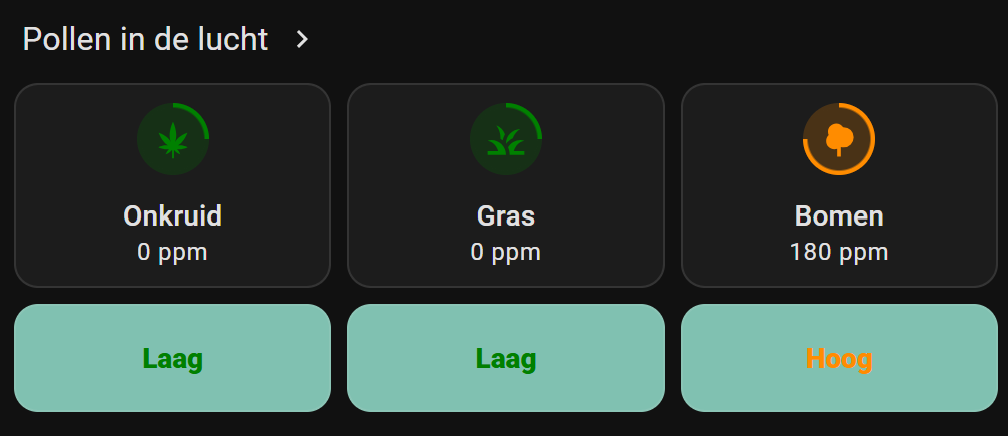
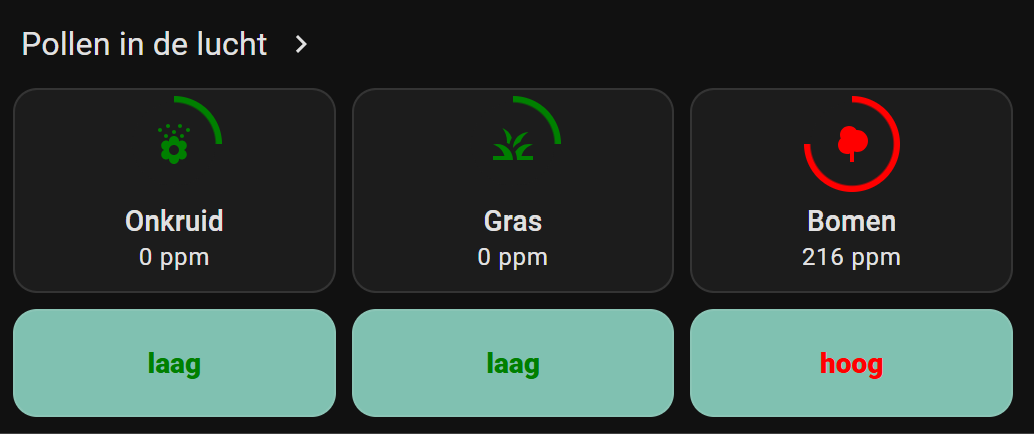
pollen: fix yaml with new HA version

diff --git a/homeassistant/homeassistant_hacs_kleenex.md b/homeassistant/homeassistant_hacs_kleenex.md
@@ -326,7 +326,7 @@ cards:
       style: |
         ha-tile-icon {
           {% set level = states('sensor.kleenex_pollen_radar_huis_weeds_level') %}
-          {% set color = {'none': 'green','low':'yellow','moderate':'orange','high':'red','very-high':'maroon'} %}
+          {% set color = {'none': 'green','low':'green','moderate':'orange','high':'red','very-high':'maroon'} %}
           {% set level_color = color.get(level,'gray') %}
           {% set circle = {'low':'25','moderate':'50','high':'75','very-high':'100'} %}        
           {% set percentage = circle.get(level,'25') %}
@@ -346,7 +346,7 @@ cards:
       style: |
         ha-tile-icon {
           {% set level = states('sensor.kleenex_pollen_radar_huis_grass_level') %}
-          {% set color = {'none': 'green','low':'yellow','moderate':'orange','high':'red','very-high':'maroon'} %}
+          {% set color = {'none': 'green','low':'green','moderate':'orange','high':'red','very-high':'maroon'} %}
           {% set level_color = color.get(level,'gray') %}
           {% set circle = {'low':'25','moderate':'50','high':'75','very-high':'100'} %}        
           {% set percentage = circle.get(level,'25') %}
@@ -366,7 +366,7 @@ cards:
       style: |
         ha-tile-icon {
           {% set level = states('sensor.kleenex_pollen_radar_huis_trees_level') %}
-          {% set color = {'none': 'green','low':'yellow','moderate':'orange','high':'red','very-high':'maroon'} %}
+          {% set color = {'none': 'green','low':'green','moderate':'orange','high':'red','very-high':'maroon'} %}
           {% set level_color = color.get(level,'gray') %}
           {% set circle = {'low':'25','moderate':'50','high':'75','very-high':'100'} %}        
           {% set percentage = circle.get(level,'25') %}
@@ -418,7 +418,7 @@ cards:
           style: |
             ha-tile-icon {
               {% set level = states('sensor.kleenex_pollen_radar_huis_weeds_level') %}
-              {% set color = {'none': 'green','low':'yellow','moderate':'orange','high':'red','very-high':'maroon'} %}
+              {% set color = {'none': 'green','low':'green','moderate':'orange','high':'red','very-high':'maroon'} %}
               {% set level_color = color.get(level,'gray') %}
               {% set circle = {'low':'25','moderate':'50','high':'75','very-high':'100'} %}        
               {% set percentage = circle.get(level,'25') %}
@@ -438,7 +438,7 @@ cards:
           style: |
             ha-tile-icon {
               {% set level = states('sensor.kleenex_pollen_radar_huis_grass_level') %}
-              {% set color = {'none': 'green','low':'yellow','moderate':'orange','high':'red','very-high':'maroon'} %}
+              {% set color = {'none': 'green','low':'green','moderate':'orange','high':'red','very-high':'maroon'} %}
               {% set level_color = color.get(level,'gray') %}
               {% set circle = {'low':'25','moderate':'50','high':'75','very-high':'100'} %}        
               {% set percentage = circle.get(level,'25') %}
@@ -458,7 +458,7 @@ cards:
           style: |
             ha-tile-icon {
               {% set level = states('sensor.kleenex_pollen_radar_huis_trees_level') %}
-              {% set color = {'none': 'green','low':'yellow','moderate':'orange','high':'red','very-high':'maroon'} %}
+              {% set color = {'none': 'green','low':'green','moderate':'orange','high':'red','very-high':'maroon'} %}
               {% set level_color = color.get(level,'gray') %}
               {% set circle = {'low':'25','moderate':'50','high':'75','very-high':'100'} %}        
               {% set percentage = circle.get(level,'25') %}
@@ -478,14 +478,17 @@ cards:
               background: rgb(128,193,177);
               color:
                  {% set level = states('sensor.kleenex_pollen_radar_huis_weeds_level') %}
-                 {% set color = {'none': 'green','low':'yellow','moderate':'orange','high':'red','very-high':'maroon'} %}
+                 {% set color = {'none': 'green','low':'green','moderate':'orange','high':'red','very-high':'maroon'} %}
                  {% set level_color = color.get(level,'gray') %}
                 {{level_color}};
               font-weight: 800;
               text-align: center;
             }
         content: |
-          {{states(config.entity)}}
+          {% set level = states(config.entity) %}
+          {% set color = {'none': 'geen','low':'laag','moderate':'gemiddeld','high':'hoog','very-high':'heel hoog'} %}
+          {% set level_text = color.get(level,'gray') %}
+          {{ level_text }}
       - type: markdown
         entity: sensor.kleenex_pollen_radar_huis_grass_level
         card_mod:
@@ -494,14 +497,17 @@ cards:
               background: rgb(128,193,177);
               color:
                 {% set level = states('sensor.kleenex_pollen_radar_huis_grass_level') %}
-                {% set color = {'none': 'green','low':'yellow','moderate':'orange','high':'red','very-high':'maroon'} %}
+                {% set color = {'none': 'green','low':'green','moderate':'orange','high':'red','very-high':'maroon'} %}
                 {% set level_color = color.get(level,'gray') %}
                 {{level_color}};
               font-weight: 800;
               text-align: center;
             }
         content: |
-          {{states(config.entity)}}
+          {% set level = states(config.entity) %}
+          {% set color = {'none': 'geen','low':'laag','moderate':'gemiddeld','high':'hoog','very-high':'heel hoog'} %}
+          {% set level_text = color.get(level,'gray') %}
+          {{ level_text }}
       - type: markdown
         entity: sensor.kleenex_pollen_radar_huis_trees_level
         card_mod:
@@ -510,14 +516,17 @@ cards:
               background: rgb(128,193,177);
               color:
                 {% set level = states('sensor.kleenex_pollen_radar_huis_trees_level') %}
-                {% set color = {'none': 'green','low':'yellow','moderate':'orange','high':'red','very-high':'maroon'} %}
+                {% set color = {'none': 'green','low':'green','moderate':'orange','high':'red','very-high':'maroon'} %}
                 {% set level_color = color.get(level,'gray') %}
                 {{level_color}};
               font-weight: 800;
               text-align: center;
             }
         content: |
-          {{states('sensor.kleenex_pollen_radar_huis_trees_level')}}
+          {% set level = states(config.entity) %}
+          {% set color = {'none': 'geen','low':'laag','moderate':'gemiddeld','high':'hoog','very-high':'heel hoog'} %}
+          {% set level_text = color.get(level,'gray') %}
+          {{ level_text }}
 {% endraw %}
 ```
 </details>
